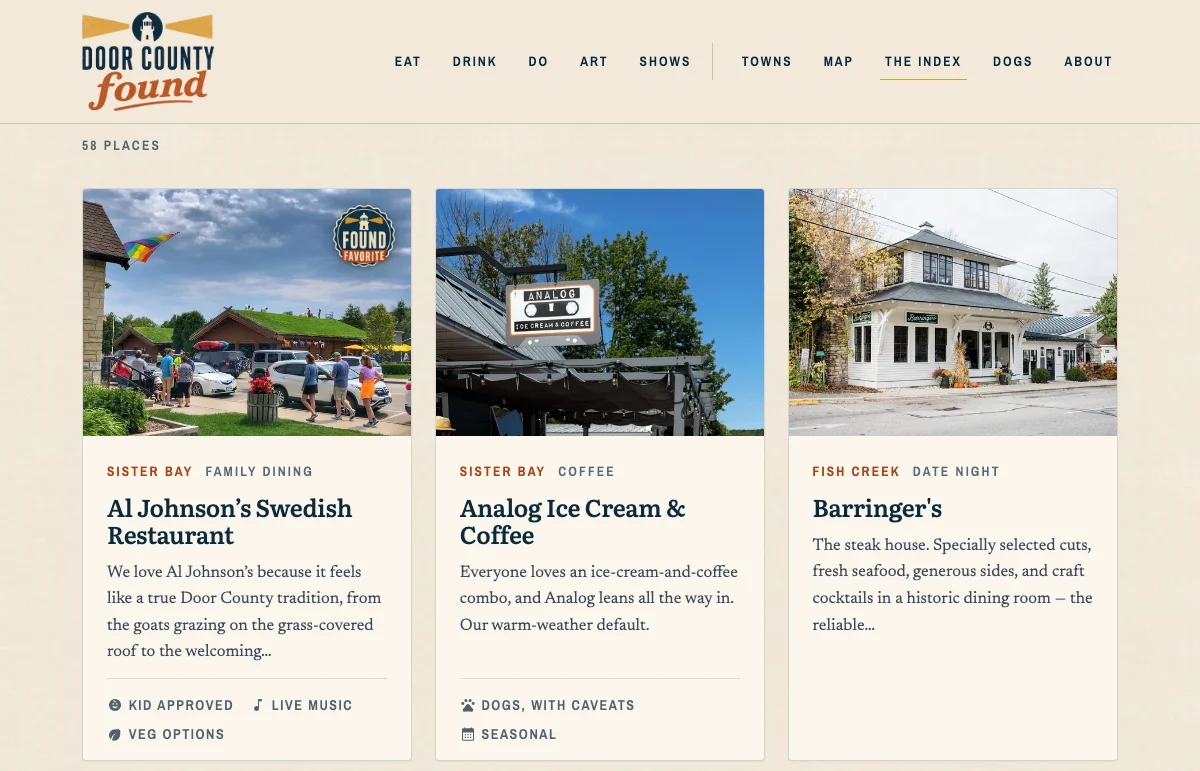
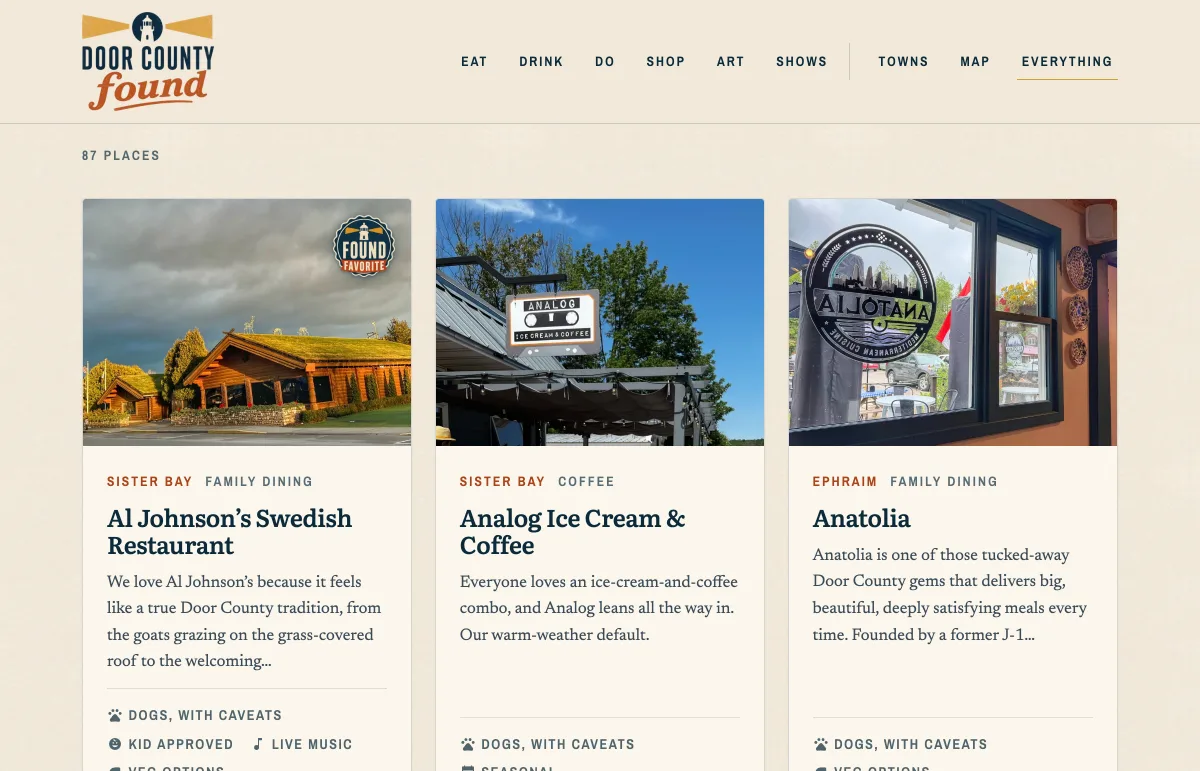
Door County Found at 87 places, and the essay's Relay screen on the Northside batch
Door County Found: the map and index screenshots are retaken from the app at
a0dfbff (dcf.mjs phones for the map; the index at its old 1200x771 framing),
and the page says 87 where it said 58, matching doorcountyfound.com today.

My next design challenge: the working Relay figure tells the batch the Agent
Review page now tells, three of five selected with Northside Trucking active,
in place of the retired five-customer batch. relay-screen.js counts the
batch from data-pick rather than assuming Monarch Dental Group.

diff --git a/writing/my-next-design-challenge.html b/writing/my-next-design-challenge.html
@@ -44,7 +44,7 @@
           "mainEntityOfPage": "https://adamhickey.com/writing/my-next-design-challenge.html",
           "image": "https://adamhickey.com/img/og/my-next-design-challenge.jpg",
           "datePublished": "2026-10-27",
-          "dateModified": "2026-11-02",
+          "dateModified": "2026-11-14",
           "author": {
             "@id": "https://adamhickey.com/#adam"
           },
@@ -120,7 +120,7 @@
   <script src="../site-nav.js?v=20260906a" defer></script>
   <script src="../read-aloud.js?v=4" defer></script>
   <script src="../writing.js?v=20261030a" defer></script>
-  <script src="../lab/relay-screen.js?v=1" defer></script>
+  <script src="../lab/relay-screen.js?v=2" defer></script>
   <!-- The header logo plays a one-shot reveal clip on load and fades out
        over the static mark as it finishes. The class is set here, before
        first paint, so the static mark never flashes ahead of the animation;
@@ -321,49 +321,43 @@
 
           <h2 id="when-making-things-becomes-easier-choosing-what-matters-becomes-harder">When making things becomes easier, choosing what matters becomes harder</h2>
           <p>AI is getting better at taste and judgment too.</p>
-          <!-- Relay's customer list, working: the review screen from Agent
-               Review's Evaluate chapter, in the same markup
-               (lab/relay-screen.css and relay-screen.js). Archive opens the
-               review, because three of the five are active; since
+          <!-- Relay's customer list, working: the Northside batch from Agent
+               Review (lab/relay-screen.css and relay-screen.js). Archive
+               opens the review, because one of the three is active; since
                2026-11-02 that is the direction I chose, the agent's review
-               stopping only for a batch like this one. Until that day this
-               was the undo screen, and until 2026-10-31 a capture of the
-               list before the press, with no Archive button on it to
-               press. -->
+               stopping only for a batch like this one. Until 2026-11-14 this
+               was the earlier five-customer batch, three of them active,
+               which the Agent Review page no longer tells. -->
           <figure class="writing-figure writing-scene ev" data-ev="review" data-step="selected">
             <div class="arc-device">
               <div class="arc-device-bar" aria-hidden="true"><span class="arc-device-dots"><span></span><span></span><span></span></span><span class="arc-device-title">Relay &middot; Customers</span></div>
               <div class="ev-screen">
-                <div class="ev-bar" data-for="selected reviewing"><span class="ev-bar-text">5 customers selected</span> <button type="button" class="ev-key ev-key--archive" data-press="review" data-for="selected">Archive</button></div>
-                <div class="ev-bar" data-for="archived"><span class="ev-bar-text"><span class="ev-gone-count">4 customers</span> archived. Monarch Dental Group wasn&rsquo;t: it has an open invoice.</span> <button type="button" class="ev-key ev-key--quiet" data-press="again">Start over</button></div>
+                <div class="ev-bar" data-for="selected reviewing"><span class="ev-bar-text">3 of 5 customers selected</span> <button type="button" class="ev-key ev-key--archive" data-press="review" data-for="selected">Archive</button></div>
+                <div class="ev-bar" data-for="archived"><span class="ev-bar-text"><span class="ev-gone-count">3 customers</span> archived.</span> <button type="button" class="ev-key ev-key--quiet" data-press="again">Start over</button></div>
                 <section class="ev-review" data-for="reviewing" aria-labelledby="ev-review-title">
-                  <h3 class="ev-review-title" id="ev-review-title">Review 5 customers before archiving</h3>
-                  <p class="ev-review-group"><span class="ev-tag ev-tag--blocked">Can&rsquo;t archive</span></p>
-                  <p class="ev-review-line"><strong>Monarch Dental Group</strong>: it has an open invoice. It stays in the table.</p>
-                  <p class="ev-review-group"><span class="ship-list-tag ship-list-tag--active">Active</span> Check these. Clear a box to keep the customer.</p>
+                  <h3 class="ev-review-title" id="ev-review-title">Review 3 customers before archiving</h3>
+                  <p class="ev-review-group"><span class="ship-list-tag ship-list-tag--active">Active</span> Check this one. Clear the box to keep the customer.</p>
                   <ul class="ev-keep">
-                    <li><label><input type="checkbox" data-keep="halvorsen" checked /> Halvorsen Freight, $3,840 a month</label></li>
-                    <li><label><input type="checkbox" data-keep="brightwater" checked /> Brightwater Clinics, $1,320 a month</label></li>
-                    <li><label><input type="checkbox" data-keep="saltmarsh" checked /> Saltmarsh Studio, $87 a month</label></li>
+                    <li><label><input type="checkbox" data-keep="northside" checked /> Northside Trucking, $5,040 a month</label></li>
                   </ul>
-                  <p class="ev-review-line">1 customer churned, past due, or on trial.</p>
-                  <p class="ev-review-keys"><button type="button" class="ev-key ev-key--quiet" data-press="cancel">Cancel</button> <button type="button" class="ev-key ev-key--archive" data-press="archive">Archive <span class="ev-going">4 customers</span></button></p>
+                  <p class="ev-review-line">2 customers churned or on trial.</p>
+                  <p class="ev-review-keys"><button type="button" class="ev-key ev-key--quiet" data-press="cancel">Cancel</button> <button type="button" class="ev-key ev-key--archive" data-press="archive">Archive <span class="ev-going">3 customers</span></button></p>
                 </section>
                 <ul class="ev-rows">
-                  <li class="ev-row" data-id="halvorsen" data-on><div class="ev-row-in"><div class="ev-row-body"><svg class="ev-check" viewBox="0 0 16 16" aria-hidden="true" focusable="false"><path d="M4 8.5l2.5 2.5 5.5-6"/></svg><span class="ev-row-name">Halvorsen Freight</span> <span class="ship-list-tag ship-list-tag--active">Active</span></div></div></li>
-                  <li class="ev-row" data-id="brightwater" data-on><div class="ev-row-in"><div class="ev-row-body"><svg class="ev-check" viewBox="0 0 16 16" aria-hidden="true" focusable="false"><path d="M4 8.5l2.5 2.5 5.5-6"/></svg><span class="ev-row-name">Brightwater Clinics</span> <span class="ship-list-tag ship-list-tag--active">Active</span></div></div></li>
-                  <li class="ev-row" data-id="alder" data-on><div class="ev-row-in"><div class="ev-row-body"><svg class="ev-check" viewBox="0 0 16 16" aria-hidden="true" focusable="false"><path d="M4 8.5l2.5 2.5 5.5-6"/></svg><span class="ev-row-name">Alder &amp; Finch</span> <span class="ship-list-tag ship-list-tag--trial">Trial</span></div></div></li>
-                  <li class="ev-row" data-id="monarch" data-on><div class="ev-row-in"><div class="ev-row-body"><svg class="ev-check" viewBox="0 0 16 16" aria-hidden="true" focusable="false"><path d="M4 8.5l2.5 2.5 5.5-6"/></svg><span class="ev-row-name">Monarch Dental Group</span> <span class="ship-list-tag ship-list-tag--due">Past due</span></div></div></li>
-                  <li class="ev-row" data-id="saltmarsh" data-on><div class="ev-row-in"><div class="ev-row-body"><svg class="ev-check" viewBox="0 0 16 16" aria-hidden="true" focusable="false"><path d="M4 8.5l2.5 2.5 5.5-6"/></svg><span class="ev-row-name">Saltmarsh Studio</span> <span class="ship-list-tag ship-list-tag--active">Active</span></div></div></li>
+                  <li class="ev-row" data-id="alder" data-pick data-on><div class="ev-row-in"><div class="ev-row-body"><svg class="ev-check" viewBox="0 0 16 16" aria-hidden="true" focusable="false"><path d="M4 8.5l2.5 2.5 5.5-6"/></svg><span class="ev-row-name">Alder &amp; Finch</span> <span class="ship-list-tag ship-list-tag--trial">Trial</span></div></div></li>
+                  <li class="ev-row" data-id="northside" data-pick data-on><div class="ev-row-in"><div class="ev-row-body"><svg class="ev-check" viewBox="0 0 16 16" aria-hidden="true" focusable="false"><path d="M4 8.5l2.5 2.5 5.5-6"/></svg><span class="ev-row-name">Northside Trucking</span> <span class="ship-list-tag ship-list-tag--active">Active</span></div></div></li>
+                  <li class="ev-row" data-id="juniper" data-pick data-on><div class="ev-row-in"><div class="ev-row-body"><svg class="ev-check" viewBox="0 0 16 16" aria-hidden="true" focusable="false"><path d="M4 8.5l2.5 2.5 5.5-6"/></svg><span class="ev-row-name">Juniper Foods</span> <span class="ship-list-tag ship-list-tag--churned">Churned</span></div></div></li>
+                  <li class="ev-row" data-id="halvorsen"><div class="ev-row-in"><div class="ev-row-body"><svg class="ev-check" viewBox="0 0 16 16" aria-hidden="true" focusable="false"><path d="M4 8.5l2.5 2.5 5.5-6"/></svg><span class="ev-row-name">Halvorsen Freight</span> <span class="ship-list-tag ship-list-tag--active">Active</span></div></div></li>
+                  <li class="ev-row" data-id="brightwater"><div class="ev-row-in"><div class="ev-row-body"><svg class="ev-check" viewBox="0 0 16 16" aria-hidden="true" focusable="false"><path d="M4 8.5l2.5 2.5 5.5-6"/></svg><span class="ev-row-name">Brightwater Clinics</span> <span class="ship-list-tag ship-list-tag--active">Active</span></div></div></li>
                 </ul>
                 <p class="visually-hidden" data-said role="status"></p>
               </div>
             </div>
-            <figcaption>Five selected, three of them still active customers, so Archive opens a review that flags them first.</figcaption>
+            <figcaption>Three selected, one of them an active customer, so Archive opens a review that names it first.</figcaption>
           </figure>
           <p><mark>Producing a solution isn&rsquo;t the same as deciding whether that solution is appropriate.</mark> Someone still has to take responsibility for the decision.</p>
           <p>That distinction runs through my whole career. In enterprise systems, a workflow can function perfectly and still confuse its users. Getting it right means deciding what should happen, and when a person needs to step in.</p>
-          <p>It&rsquo;s also what motivated my <a href="../lab/agent-review.html">Agent Review</a> prototype. An agent builds a way to archive customers in bulk, and one press can archive five at once, three of them still active. Fast cleanup or no customer lost by mistake? No automated check can say which matters more, so the agent asks a person.</p>
+          <p>It&rsquo;s also what motivated my <a href="../lab/agent-review.html">Agent Review</a> prototype. An agent builds a way to archive customers in bulk, and one press can archive three at once, one of them an active customer paying $5,040 a month. Fast cleanup or no customer lost by mistake? No automated check can say which matters more, so the agent asks a person.</p>
           <p>Agent Review is still an experiment, but it&rsquo;s the problem I want to work on: keeping AI&rsquo;s work understandable and accountable.</p>
 
           <h2 id="turning-the-design-process-on-myself">Turning the design process on myself</h2>

diff --git a/case-study/door-county-found.html b/case-study/door-county-found.html
@@ -267,7 +267,7 @@
              meeting the thing. The caption came off with the move. It said
              what the picture already says, in a position where the reader has
              had no prose yet to hang it on, and the two facts worth keeping
-             out of it -- the 58 entries, the hand-built palette -- are both
+             out of it -- the 87 entries, the hand-built palette -- are both
              made in the sections below. The alt text is untouched; it is the
              description, and it was never the caption's job. -->
         <figure class="build-shot">
@@ -363,14 +363,14 @@
       <div class="container case-narrow">
         <h2 id="place-as-data">A place, not a blog post</h2>
         <p>Someone planning a Saturday asks the same few questions of every place. Where is it? What is it? Can the dog come? Is there something for the vegetarian?</p>
-        <p>So <strong>every place answers them in the same order</strong>, with one paragraph in the family voice. There are 58 live today.</p>
+        <p>So <strong>every place answers them in the same order</strong>, with one paragraph in the family voice. There are 87 live today.</p>
         
         <figure class="build-shot">
           <div class="build-laptop"><div class="build-laptop-lid">
-              <img src="../img/dcf/index-cards.webp?v=1" width="1200" height="771" loading="lazy" decoding="async"
-                   alt="The index page: a count reading 58 places above a row of three cards &mdash; Al Johnson&rsquo;s Swedish Restaurant, Analog Ice Cream &amp; Coffee, and Barringer&rsquo;s &mdash; each with its own photograph, its town and category stamped above the name, and its own row of badges." />
+              <img src="../img/dcf/index-cards.webp?v=2" width="1200" height="771" loading="lazy" decoding="async"
+                   alt="The Everything page: a count reading 87 places above a row of three cards &mdash; Al Johnson&rsquo;s Swedish Restaurant, Analog Ice Cream &amp; Coffee, and Anatolia &mdash; each with its own photograph, its town and category stamped above the name, and its own row of badges." />
             </div></div>
-          <figcaption>The index, counting itself. Not one stamp on any card is typed by hand: every one renders from the record.</figcaption>
+          <figcaption>The full list, counting itself. Not one stamp on any card is typed by hand: every one renders from the record.</figcaption>
         </figure>
 
         <p>The card is for skimming and the place page is for deciding, and <strong>the two never disagree</strong>.</p>
@@ -412,7 +412,7 @@
         <figure class="build-flow">
           <ol class="build-flow-row build-flow-row--pair">
             <li class="build-flow-step">
-              <div class="build-phone"><img src="../img/dcf/phone-map.webp?v=2" width="810" height="1753" loading="lazy" decoding="async" alt="The map on a phone: filter chips reading All 57, Eat 15, Drink 10, Do 20, Art 8, Shows 4, and Dogs 11, above a map of the peninsula where every town carries its own count and a circle sized to it." /></div>
+              <div class="build-phone"><img src="../img/dcf/phone-map.webp?v=3" width="810" height="1753" loading="lazy" decoding="async" alt="The map on a phone: filter chips reading All 87, Eat 19, Drink 13, Do 32, Shop 8, Art 11, Shows 4, and Dogs 40, above a map of the peninsula where every town carries its own count and a circle sized to it." /></div>
               <p class="build-flow-cap">The map, and chips that count themselves</p>
             </li>
             <li class="build-flow-step">

diff --git a/lab/relay-screen.js b/lab/relay-screen.js
@@ -5,12 +5,14 @@
  * Until 2026-10-31 this was part of agent-review-story.js.
  *
  * Each figure's step is one word on data-step, and the stylesheet shows
- * what that step shows. A row that leaves is marked data-gone; a row still
- * selected, data-on. The words a press changes are said once more in the
- * figure's own status line, for a screen reader.
+ * what that step shows. A row in the batch is marked data-pick; a row that
+ * leaves, data-gone; a row still selected, data-on. The words a press
+ * changes are said once more in the figure's own status line, for a screen
+ * reader.
  *   undo:   selected -> archived (Undo) -> undone (Start over)
  *   review: selected -> reviewing (Cancel, Archive N) -> archived
- * Monarch Dental Group never leaves: it has an open invoice.
+ * Since 2026-11-14 the one screen left is the essay's review, on the
+ * Northside batch: three of five selected, one of them active.
  */
 (function () {
   const plural = (n) => `${n} customer${n === 1 ? '' : 's'}`;
@@ -18,7 +20,8 @@
     const rows = [...fig.querySelectorAll('.ev-row')];
     const keeps = [...fig.querySelectorAll('[data-keep]')];
     const said = fig.querySelector('[data-said]');
-    const going = () => rows.filter((r) => r.dataset.id !== 'monarch' &&
+    const picked = rows.filter((r) => r.hasAttribute('data-pick'));
+    const going = () => picked.filter((r) =>
       !keeps.some((k) => k.dataset.keep === r.dataset.id && !k.checked));
     const count = () => {
       const n = going().length;
@@ -31,7 +34,8 @@
       if (next) next.focus({ preventScroll: true });
     };
     const reset = () => {
-      rows.forEach((r) => { r.setAttribute('data-on', ''); r.removeAttribute('data-gone'); });
+      rows.forEach((r) => r.removeAttribute('data-gone'));
+      picked.forEach((r) => r.setAttribute('data-on', ''));
       keeps.forEach((k) => { k.checked = true; });
       count();
     };
@@ -39,14 +43,14 @@
       const out = going();
       rows.forEach((r) => r.removeAttribute('data-on'));
       out.forEach((r) => r.setAttribute('data-gone', ''));
-      return `${plural(out.length)} archived. Monarch Dental Group wasn’t: it has an open invoice.`;
+      return `${plural(out.length)} archived.`;
     };
     keeps.forEach((k) => k.addEventListener('change', count));
     fig.addEventListener('click', (e) => {
       const button = e.target.closest('[data-press]');
       if (!button) return;
       const press = button.dataset.press;
-      if (press === 'review') show('reviewing', 'archive', 'Review 5 customers before archiving.');
+      if (press === 'review') show('reviewing', 'archive', `Review ${plural(picked.length)} before archiving.`);
       else if (press === 'cancel') show('selected', 'review', 'Review closed.');
       else if (press === 'archive') {
         const words = archive();
@@ -54,10 +58,10 @@
         else show('archived', 'again', words);
       } else if (press === 'undo') {
         rows.forEach((r) => r.removeAttribute('data-gone'));
-        show('undone', 'again', '4 customers back in the table.');
+        show('undone', 'again', `${plural(going().length)} back in the table.`);
       } else if (press === 'again') {
         reset();
-        show('selected', fig.dataset.ev === 'undo' ? 'archive' : 'review', '5 customers selected.');
+        show('selected', fig.dataset.ev === 'undo' ? 'archive' : 'review', `${plural(picked.length)} selected.`);
       }
     });
   });
